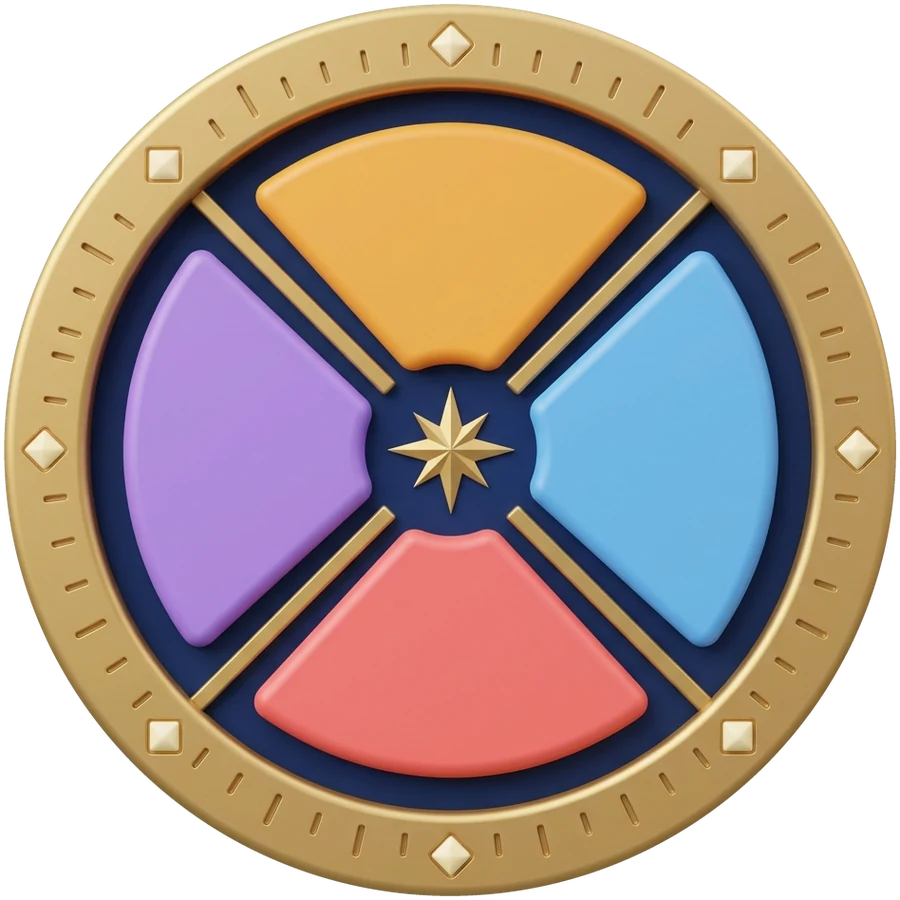
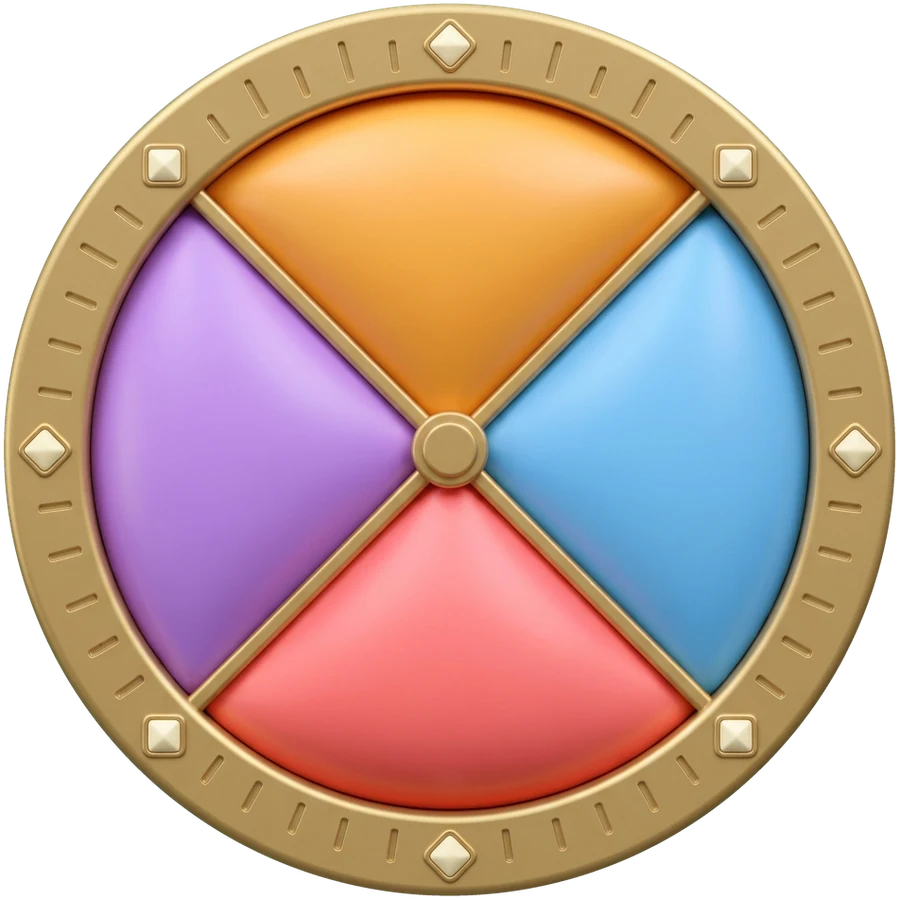
بوصلة العلوم: أرباعٌ ملوّنةٌ تملأُ الوجهَ كلَّه، وحذفُ نقطةِ الارتكاز من الصاروخ
طلبُ المالك ٢٠٢٦-١١-٠١:
- وجهٌ جديدٌ من جيميناي (السيرُ نفسُه، نُشِرَ للتوليدِ ثمّ أُلغيَ نشرُه، محاولةٌ واحدة):
  كلُّ لونٍ يملأُ ربعَه من غطاءِ المركزِ إلى حافّةِ الحلقةِ النحاسيّة بلا فراغٍ كحليّ،
  ولا يفصلُ بينها إلا حواجزُ نحاسيّةٌ على الأقطار. وطبقاتُ الإعتامِ والإضاءةِ وإطارُ التوهّجِ
  صارت قطاعاتٍ كاملةً على الهندسةِ الجديدة (المقيسة: ٠٫١١–٠٫٧٨ من نصفِ القطر، ±٤٢°).
- حُذِفَت الدائرةُ النحاسيّةُ على جسمِ الصاروخ.

وإصلاحٌ ظهرَ في الفحص: إخفاءُ مجموعةِ الإبرةِ بـvisibility (وعليها مرشّحُ ظلّ) كانَ يرسمُ
في كروم مربّعاً أسودَ وسطَ البوصلةِ بعدَ انطلاقِ الصاروخِ إلى القمر — صارَ الإخفاءُ بـdisplay.

Claude-Session: https://claude.ai/code/session_012beHnrjoKeDKUFRwBC6zWg

diff --git a/compass.html b/compass.html
@@ -24,10 +24,10 @@
   --wash:rgba(6,38,24,.34);
   --rk-hi:#fdf4e2; --rk-mid:#f3ddb6; --rk-lo:#e4c691; --rk-edge:#cba86e; --rk-ink:#4a3117;
   --sun:#FFC93C;
-  --n1:#F5BE62; --n2:#D98F2E;   /* ألوانُ بلاطاتِ وجهِ البوصلة (مقيسةٌ من الصورة) */
-  --e1:#86C8EE; --e2:#4A97D0;
-  --s1:#F28C86; --s2:#D45E58;
-  --w1:#BE9EE8; --w2:#8E6CCB;
+  --n1:#F7B65A; --n2:#DC8A2C;   /* ألوانُ أرباعِ وجهِ البوصلة (مقيسةٌ من الصورة) */
+  --e1:#86CAF0; --e2:#4A98D2;
+  --s1:#F8857F; --s2:#D9585A;
+  --w1:#C49CEB; --w2:#9070D0;
   --body:'Tajawal','Segoe UI',Tahoma,system-ui,sans-serif;
   --display:'Cairo','Tajawal',system-ui,sans-serif;
 }
@@ -196,7 +196,7 @@ button:focus-visible,a:focus-visible{outline:3px solid var(--sun);outline-offset
 .wedge text.u{font-family:var(--body);font-weight:800;stroke-width:6}
 .wedge .shade{fill:#0b1433;opacity:0;transition:opacity .3s}
 .wedge .lite{fill:#fff;opacity:0;transition:opacity .15s}
-.wedge .arc{fill:none;stroke:#FFF3B8;stroke-width:12;stroke-linecap:round;opacity:0;transition:opacity .25s}
+.wedge .arc{fill:none;stroke:#FFF3B8;stroke-width:10;stroke-linejoin:round;opacity:0;transition:opacity .25s}
 .wedge.live .lite{opacity:.16}
 .dial.picked .wedge:not(.hit) .shade{opacity:.6}
 .dial.picked .wedge:not(.hit) text{opacity:.5}
@@ -267,7 +267,7 @@ button:focus-visible,a:focus-visible{outline:3px solid var(--sun);outline-offset
 @keyframes lift{0%{transform:translateY(0)}35%{transform:translateY(-10px) scale(1.03)}100%{transform:translateY(0)}}
 @keyframes shake{0%,100%{transform:translateX(0)}25%{transform:translateX(7px)}50%{transform:translateX(-7px)}75%{transform:translateX(4px)}}
 @keyframes flick{from{transform:scaleY(.72)}to{transform:scaleY(1.14)}}
-@keyframes arcglow{0%,100%{stroke-width:10;opacity:1}50%{stroke-width:17;opacity:.7}}
+@keyframes arcglow{0%,100%{stroke-width:9;opacity:1}50%{stroke-width:14;opacity:.7}}
 @keyframes litup{0%{transform:scale(.2);opacity:0}100%{transform:scale(1);opacity:1}}
 @keyframes plant{0%{transform:scaleY(0);opacity:1}100%{transform:scaleY(1);opacity:1}}
 @keyframes arrive{0%,100%{transform:scale(1)}50%{transform:scale(1.18)}}
@@ -373,12 +373,12 @@ function starPath(R, r){
   return p+'Z';
 }
 function buildDial(){
-  /* وجهُ البوصلةِ صورةٌ من جيميناي (games/art/compass-dial.webp: إطارٌ نحاسيٌّ ووجهٌ كحليٌّ وأربعُ بلاطاتٍ ملوّنةٍ ونجمةٌ ثمانية)،
-     وما فوقَها بالكود: أسماءُ الاتجاهات، وطبقتا الإعتامِ والإضاءةِ لكلِّ ربع، وقوسُ التوهّج، وإبرةُ الصاروخ.
-     مقيسٌ من الصورة بنسبةِ نصفِ قطرِها: البلاطاتُ من ٠٫٢٠ إلى ٠٫٧٢٥ وعرضُ كلٍّ منها ±٣٧°، والحلقةُ النحاسيّةُ من ٠٫٨١. */
+  /* وجهُ البوصلةِ صورةٌ من جيميناي (games/art/compass-dial.webp: إطارٌ نحاسيٌّ وأربعةُ أرباعٍ ملوّنةٍ تملأُ الوجهَ كلَّه
+     بلا فراغ، تفصلُها حواجزُ نحاسيّةٌ على الأقطارِ تلتقي تحتَ غطاءٍ نحاسيٍّ في المركز — طلبُ المالك ٢٠٢٦-١١-٠١)،
+     وما فوقَها بالكود: أسماءُ الاتجاهات، وطبقتا الإعتامِ والإضاءةِ لكلِّ ربع، وإطارُ التوهّجِ حولَ المختار، وإبرةُ الصاروخ.
+     مقيسٌ من الصورة بنسبةِ نصفِ قطرِها: الأرباعُ من ٠٫١١ (حافّةُ الغطاء) إلى ٠٫٧٨ (حافّةُ الحلقة) بعرض ±٤٢° تقريباً. */
   const W=205, H=Math.round(205*483/300), P=.62;          // الصاروخ: يدور حول نقطةٍ قربَ ذيله فيشيرُ رأسُه إلى الاتجاه
   let s = `<defs>
-    <radialGradient id="hubG" cx="40%" cy="35%" r="70%"><stop offset="0" stop-color="#FFF2C8"/><stop offset=".55" stop-color="#E2AE48"/><stop offset="1" stop-color="#9C6A1C"/></radialGradient>
     <linearGradient id="flameG" x1="0" y1="0" x2="0" y2="1"><stop offset="0" stop-color="#FFF6C2"/><stop offset=".45" stop-color="#FFC23A"/><stop offset="1" stop-color="#FF6A1A" stop-opacity="0"/></linearGradient>
     <filter id="glow" x="-30%" y="-30%" width="160%" height="160%"><feGaussianBlur stdDeviation="10" result="b"/><feMerge><feMergeNode in="b"/><feMergeNode in="SourceGraphic"/></feMerge></filter>
     <filter id="shadow" x="-40%" y="-40%" width="180%" height="180%"><feDropShadow dx="0" dy="14" stdDeviation="12" flood-color="#000" flood-opacity=".38"/></filter>
@@ -387,12 +387,11 @@ function buildDial(){
   // الأرباعُ الأربعة: إعتامٌ لغيرِ المختار، وإضاءةٌ خفيفةٌ للمارّ تحتَ الإبرة، وقوسٌ متوهّجٌ على حافّةِ المختار
   let wedges='';
   DIRS.forEach((d,i)=>{
-    const [cx,cy]=pol(i%2? 288:300, d.deg);
-    const [ax,ay]=pol(376,d.deg-34), [bx,by]=pol(376,d.deg+34);
+    const [cx,cy]=pol(i%2? 292:305, d.deg);
     wedges+=`<g class="wedge" id="w${i}" data-dir="${i}">
-      <path class="shade" d="${sector(96, 362, d.deg-45, d.deg+45)}"/>
-      <path class="lite" d="${sector(96, 362, d.deg-45, d.deg+45)}"/>
-      <path class="arc" d="M${ax.toFixed(1)} ${ay.toFixed(1)}A376 376 0 0 1 ${bx.toFixed(1)} ${by.toFixed(1)}" filter="url(#glow)"/>
+      <path class="shade" d="${sector(48, 397, d.deg-45, d.deg+45)}"/>
+      <path class="lite" d="${sector(48, 397, d.deg-45, d.deg+45)}"/>
+      <path class="arc" d="${sector(60, 374, d.deg-40.5, d.deg+40.5)}" filter="url(#glow)"/>
       <text x="${cx.toFixed(1)}" y="${(cy-8).toFixed(1)}" text-anchor="middle" font-size="46">${d.name}</text>
       <text class="u" id="wu${i}" x="${cx.toFixed(1)}" y="${(cy+36).toFixed(1)}" text-anchor="middle" font-size="28">${d.gift?'هدية':UNIT_NO[i]}</text>
     </g>`;
@@ -404,7 +403,6 @@ function buildDial(){
     <g class="flame-g"><path class="flame" d="M-32 ${(tailY-6).toFixed(1)}Q0 ${(tailY+125).toFixed(1)} 32 ${(tailY-6).toFixed(1)}Z" fill="url(#flameG)"/>
       <path class="flame" d="M-17 ${(tailY-6).toFixed(1)}Q0 ${(tailY+68).toFixed(1)} 17 ${(tailY-6).toFixed(1)}Z" fill="#FFF8D8" fill-opacity=".85"/></g>
     <image id="rocketImg" href="games/art/rocket.png${VQ}" x="${-W/2}" y="${(-P*H).toFixed(1)}" width="${W}" height="${H}"/>
-    <circle r="15" fill="url(#hubG)" stroke="#5e3f0d" stroke-width="4"/>
   </g>`;
   $('dial').innerHTML = s;
 }
@@ -659,7 +657,7 @@ function resetScene(){
   for(let i=0;i<GOAL;i++){ const st=$('st'+i); st.setAttribute('class','slot-off'); $('ln'+i).setAttribute('class','trail'); }
   $('flag').setAttribute('class',''); $('moonImg').setAttribute('class','');
   $('gifts').innerHTML = '';
-  $('needle').style.visibility='';
+  $('needle').style.display='';
   wedgeState(-1);
   $('dial').classList.remove('busy');
 }
@@ -869,7 +867,7 @@ function finale(){
   el.style.width = RW+'px'; el.style.height = RH+'px';
   el.innerHTML = `<span class="ffl"></span><img src="games/art/rocket.png${VQ}" alt="">`;
   document.body.appendChild(el);
-  $('needle').style.visibility='hidden';
+  $('needle').style.display='none';   // لا visibility: مجموعةٌ عليها مرشّحُ ظلٍّ تُرسَمُ مربّعاً أسودَ في كروم
   const sx = box.left+box.width/2, sy = box.top+box.height/2;
   const mx = moon.left+moon.width/2, my = moon.top+moon.height*.35;
   const k = (x,y,s,rot,o) => ({transform:`translate(${x-RW/2}px,${y-RH/2}px) rotate(${rot}deg) scale(${s})`, opacity:o});
